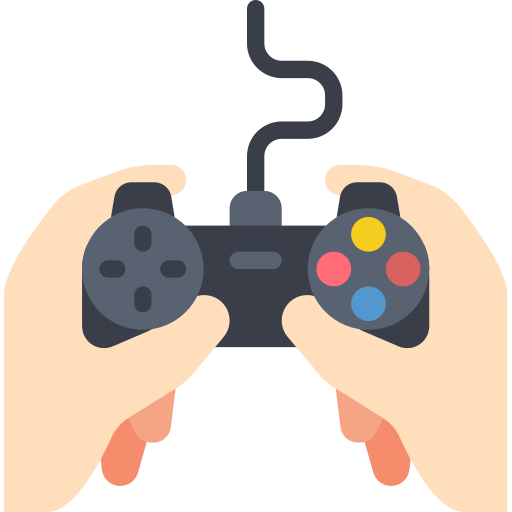
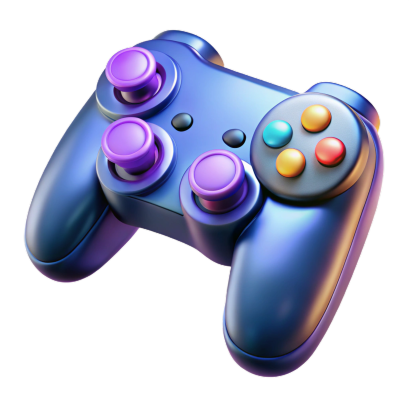
refactor styles

diff --git a/src/components/project/Navbars/Navbar.tsx b/src/components/project/Navbars/Navbar.tsx
@@ -1,7 +1,7 @@
-import { HStack, Text } from "@chakra-ui/react";
+import { HStack, Image, Text, Box } from "@chakra-ui/react";
 import { ColorModeButton, useColorMode } from "../../ui/color-mode";
 import { Searchbar } from "../Searchbars/Searchbar";
-import { GiGamepad } from "react-icons/gi";
+import navImage from "../../../assets/controller.png";
 import useGameStore from "../../../Stores/GameStore";
 import { Link } from "react-router-dom";
 
@@ -12,24 +12,25 @@ function Navbar() {
   return (
     <HStack w="full" paddingY={4} paddingX={4} bg="bg.subtle" gap={5}>
       <Link to={"/"}>
-        {" "}
-        <HStack gap={3}>
-          <GiGamepad
-            size={"48px"}
-            color={colorMode === "light" ? "black" : "gold"}
-          />
+        <HStack gap={3} flexShrink={0}>
+          <Image boxSize={{ base: "24px", md: "32px" }} src={navImage} />
           <Text
-            fontSize={{ md: "lg", sm: "sm" }}
-            letterSpacing={{ md: "10px", sm: "10px" }}
+            fontSize={{ base: "xs", sm: "sm", md: "lg" }}
+            letterSpacing={{ base: "5px", md: "10px" }}
+            display={{ base: "none", sm: "block" }}
           >
-            RAWG
+            GAMEHUB
           </Text>
         </HStack>
       </Link>
 
-      <Searchbar on_submit={(searchText: string) => setSearch(searchText)} />
+      <Box flex={1} minW={0}>
+        <Searchbar on_submit={(searchText: string) => setSearch(searchText)} />
+      </Box>
 
-      <ColorModeButton />
+      <Box flexShrink={0}>
+        <ColorModeButton />
+      </Box>
     </HStack>
   );
 }

diff --git a/src/Pages/GameDetailPage.tsx b/src/Pages/GameDetailPage.tsx
@@ -16,7 +16,7 @@ export const GameDetailPage = () => {
     <>
       <SimpleGrid columns={{ base: 1, md: 2 }} gap={4}>
         <GridItem>
-          <Heading fontSize={"4xl"}>{game.slug}</Heading>
+          <Heading fontSize={"4xl"}>{game.name}</Heading>
           <ExpandableText>{game.description_raw}</ExpandableText>
           <GameAttributes game={game} />
         </GridItem>

diff --git a/src/components/project/GameAttributes.tsx b/src/components/project/GameAttributes.tsx
@@ -8,7 +8,7 @@ interface Props {
 }
 export const GameAttributes = ({ game }: Props) => {
   return (
-    <SimpleGrid columns={2} gap={5} as={"dl"} mt={10}>
+    <SimpleGrid columns={2} as={"dl"} my={10}>
       <DefinitionItem term={"Platforms"}>
         {game.parent_platforms.map(({ platform }, index) => (
           <Text key={index}>{platform.slug}</Text>

diff --git a/src/components/project/DefinitionItem.tsx b/src/components/project/DefinitionItem.tsx
@@ -9,7 +9,7 @@ export const DefinitionItem = ({ term, children }: Props) => {
   return (
     <>
       <Box paddingY={5} fontWeight={400} fontSize={"lg"}>
-        <Heading as={"dt"} fontSize={"md"} color={"gray.600"}>
+        <Heading as={"dt"} fontSize={"md"} color={"gray.500"}>
           {term}
         </Heading>
         <dd>{children}</dd>

diff --git a/src/components/project/Games/GridGame.tsx b/src/components/project/Games/GridGame.tsx
@@ -38,7 +38,7 @@ export const GridGame = () => {
           }}
           columns={{
             base: 1,
-            sm: 2,
+            sm: 1,
             md: 2,
             lg: 3,
           }}
